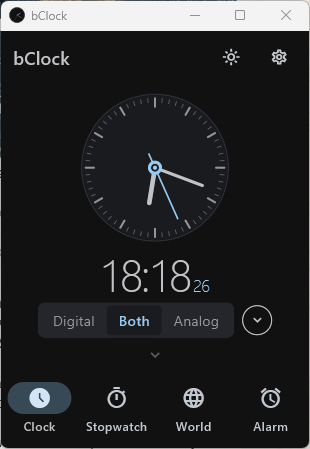
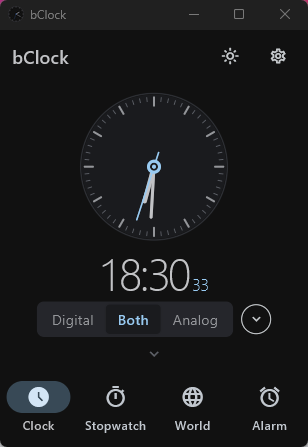
Match the Windows title bar to the app theme
The native title bar followed the Windows app theme, so bClock's dark
theme showed a light title bar. window_manager.setBrightness can't fix
that: it only enables a dark title bar when Windows itself is dark.

The runner now takes an app override over a "bclock/window" channel
(setDarkTitleBar), and Win32Window::UpdateTheme respects it when the
system colours change. AppProvider applies it before the window is
first shown and on every theme toggle. Screenshots retaken.

diff --git a/lib/providers/app_provider.dart b/lib/providers/app_provider.dart
@@ -1,4 +1,5 @@
 import 'package:flutter/material.dart';
+import 'package:flutter/services.dart';
 import 'package:shared_preferences/shared_preferences.dart';
 import 'package:window_manager/window_manager.dart';
 
@@ -67,8 +68,20 @@ class AppProvider extends ChangeNotifier {
     _weekStart =
         WeekStart.values[p.getInt(_kWeekStart) ?? WeekStart.monday.index];
     if (_alwaysOnTop) await windowManager.setAlwaysOnTop(true);
+    // Before the window is first shown, so the title bar never flashes
+    // light on a dark start.
+    await _applyWindowBrightness();
     notifyListeners();
   }
+
+  /// Handled by the Windows runner (windows/runner/flutter_window.cpp).
+  static const _windowChannel = MethodChannel('bclock/window');
+
+  /// Matches the native Windows title bar to the app theme — Flutter only
+  /// paints the client area. Not window_manager.setBrightness: that one
+  /// refuses a dark title bar while Windows itself is in light mode.
+  Future<void> _applyWindowBrightness() =>
+      _windowChannel.invokeMethod('setDarkTitleBar', isDark);
 
   Future<void> _save() async {
     final p = await SharedPreferences.getInstance();
@@ -88,6 +101,7 @@ class AppProvider extends ChangeNotifier {
 
   void toggleTheme() {
     _themeMode = isDark ? ThemeMode.light : ThemeMode.dark;
+    _applyWindowBrightness();
     notifyListeners();
     _save();
   }

diff --git a/test/widget_test.dart b/test/widget_test.dart
@@ -1,4 +1,5 @@
 import 'package:flutter/material.dart';
+import 'package:flutter/services.dart';
 import 'package:flutter_test/flutter_test.dart';
 
 import 'package:bclock/l10n/app_localizations.dart';
@@ -16,6 +17,33 @@ Widget _app(Widget home, {Locale? locale}) => MaterialApp(
     );
 
 void main() {
+  // No real window under test: record the runner's window calls instead.
+  final windowCalls = <MethodCall>[];
+  setUp(() {
+    windowCalls.clear();
+    TestWidgetsFlutterBinding.ensureInitialized()
+        .defaultBinaryMessenger
+        .setMockMethodCallHandler(const MethodChannel('bclock/window'),
+            (call) async {
+      windowCalls.add(call);
+      return null;
+    });
+  });
+
+  test('Title bar brightness follows the app theme', () async {
+    SharedPreferences.setMockInitialValues({'flutter.themeMode': 2}); // dark
+    final provider = AppProvider();
+    await provider.load();
+    List<Object?> darkTitleBar() => windowCalls
+        .where((c) => c.method == 'setDarkTitleBar')
+        .map((c) => c.arguments)
+        .toList();
+    expect(darkTitleBar(), [true]);
+
+    provider.toggleTheme();
+    expect(darkTitleBar(), [true, false]);
+  });
+
   testWidgets('StopwatchScreen renders start button', (WidgetTester tester) async {
     await tester.pumpWidget(_app(const StopwatchScreen()));
 

diff --git a/windows/runner/flutter_window.cpp b/windows/runner/flutter_window.cpp
@@ -1,5 +1,7 @@
 #include "flutter_window.h"
 
+#include <flutter/standard_method_codec.h>
+
 #include <optional>
 
 #include "flutter/generated_plugin_registrant.h"
@@ -25,6 +27,29 @@ bool FlutterWindow::OnCreate() {
     return false;
   }
   RegisterPlugins(flutter_controller_->engine());
+
+  // Set up before this returns to the message loop, so calls Dart makes
+  // during startup (AppProvider.load) are queued, not dropped.
+  window_channel_ =
+      std::make_unique<flutter::MethodChannel<flutter::EncodableValue>>(
+          flutter_controller_->engine()->messenger(), "bclock/window",
+          &flutter::StandardMethodCodec::GetInstance());
+  window_channel_->SetMethodCallHandler(
+      [this](const flutter::MethodCall<flutter::EncodableValue>& call,
+             std::unique_ptr<flutter::MethodResult<flutter::EncodableValue>>
+                 result) {
+        if (call.method_name() == "setDarkTitleBar") {
+          const auto* dark = std::get_if<bool>(call.arguments());
+          if (!dark) {
+            result->Error("bad_args", "Expected a bool");
+            return;
+          }
+          SetDarkTitleBar(*dark);
+          result->Success();
+        } else {
+          result->NotImplemented();
+        }
+      });
   SetChildContent(flutter_controller_->view()->GetNativeWindow());
 
   flutter_controller_->engine()->SetNextFrameCallback([&]() {
@@ -40,6 +65,7 @@ bool FlutterWindow::OnCreate() {
 }
 
 void FlutterWindow::OnDestroy() {
+  window_channel_ = nullptr;
   if (flutter_controller_) {
     flutter_controller_ = nullptr;
   }

diff --git a/windows/runner/win32_window.h b/windows/runner/win32_window.h
@@ -5,6 +5,7 @@
 
 #include <functional>
 #include <memory>
+#include <optional>
 #include <string>
 
 // A class abstraction for a high DPI-aware Win32 Window. Intended to be
@@ -49,6 +50,10 @@ class Win32Window {
   // window properties. Returns nullptr if the window has been destroyed.
   HWND GetHandle();
 
+  // Forces a dark (true) or light (false) title bar regardless of the
+  // Windows app theme, so it can follow the app's own theme setting.
+  void SetDarkTitleBar(bool dark);
+
   // If true, closing this window will quit the application.
   void SetQuitOnClose(bool quit_on_close);
 
@@ -88,7 +93,11 @@ class Win32Window {
   static Win32Window* GetThisFromHandle(HWND const window) noexcept;
 
   // Update the window frame's theme to match the system theme.
-  static void UpdateTheme(HWND const window);
+  // Applies the title bar theme: the app override if one was set via
+  // SetDarkTitleBar, otherwise the Windows app theme.
+  void UpdateTheme(HWND const window);
+
+  std::optional<bool> dark_title_bar_override_;
 
   bool quit_on_close_ = false;
 

diff --git a/windows/runner/win32_window.cpp b/windows/runner/win32_window.cpp
@@ -280,9 +280,23 @@ void Win32Window::UpdateTheme(HWND const window) {
                                RRF_RT_REG_DWORD, nullptr, &light_mode,
                                &light_mode_size);
 
-  if (result == ERROR_SUCCESS) {
+  if (dark_title_bar_override_.has_value()) {
+    BOOL enable_dark_mode = *dark_title_bar_override_;
+    DwmSetWindowAttribute(window, DWMWA_USE_IMMERSIVE_DARK_MODE,
+                          &enable_dark_mode, sizeof(enable_dark_mode));
+  } else if (result == ERROR_SUCCESS) {
     BOOL enable_dark_mode = light_mode == 0;
     DwmSetWindowAttribute(window, DWMWA_USE_IMMERSIVE_DARK_MODE,
                           &enable_dark_mode, sizeof(enable_dark_mode));
+  }
+}
+
+void Win32Window::SetDarkTitleBar(bool dark) {
+  dark_title_bar_override_ = dark;
+  if (window_handle_) {
+    UpdateTheme(window_handle_);
+    // Repaint the non-client area so the change shows immediately.
+    RedrawWindow(window_handle_, nullptr, nullptr,
+                 RDW_FRAME | RDW_INVALIDATE | RDW_UPDATENOW);
   }
 }

diff --git a/windows/runner/flutter_window.h b/windows/runner/flutter_window.h
@@ -3,6 +3,7 @@
 
 #include <flutter/dart_project.h>
 #include <flutter/flutter_view_controller.h>
+#include <flutter/method_channel.h>
 
 #include <memory>
 
@@ -28,6 +29,10 @@ class FlutterWindow : public Win32Window {
 
   // The Flutter instance hosted by this window.
   std::unique_ptr<flutter::FlutterViewController> flutter_controller_;
+
+  // "bclock/window": app-level window chrome calls (title bar theme).
+  std::unique_ptr<flutter::MethodChannel<flutter::EncodableValue>>
+      window_channel_;
 };
 
 #endif  // RUNNER_FLUTTER_WINDOW_H_

diff --git a/CLAUDE.md b/CLAUDE.md
@@ -21,6 +21,7 @@ bClock is a minimalist **Windows desktop** Flutter app: analog/digital clock, st
 - Global state is a single `AppProvider` (`lib/providers/app_provider.dart`) — a `ChangeNotifier` provided at the root in `main.dart` and consumed via `provider`. It owns theme mode, clock view (analog/digital/both), digital position, clock size, `alwaysOnTop`, and nav-bar visibility.
 - Every setter calls `notifyListeners()` and then `_save()` to `SharedPreferences`. `AppProvider.load()` is awaited **before** `runApp` so first frame renders with restored state.
 - `setAlwaysOnTop` also calls `windowManager.setAlwaysOnTop` — the provider is the single source of truth for that OS-level flag.
+- Likewise the **native title bar follows the app theme**: `load()` and `toggleTheme()` call `setDarkTitleBar` on the `bclock/window` channel, handled in `windows/runner/flutter_window.cpp` → `Win32Window::SetDarkTitleBar`, whose override `UpdateTheme` respects on system colour changes. Don't use `windowManager.setBrightness` — it refuses a dark title bar while Windows is in light mode. Tests mock the `bclock/window` channel.
 
 ### Screen shell
 - `MainScreen` in `main.dart` is a stateful `IndexedStack` of the four screens with a `NavigationBar`. The nav bar can be collapsed via a chevron handle; visibility is persisted (`AppProvider.showNav`).
